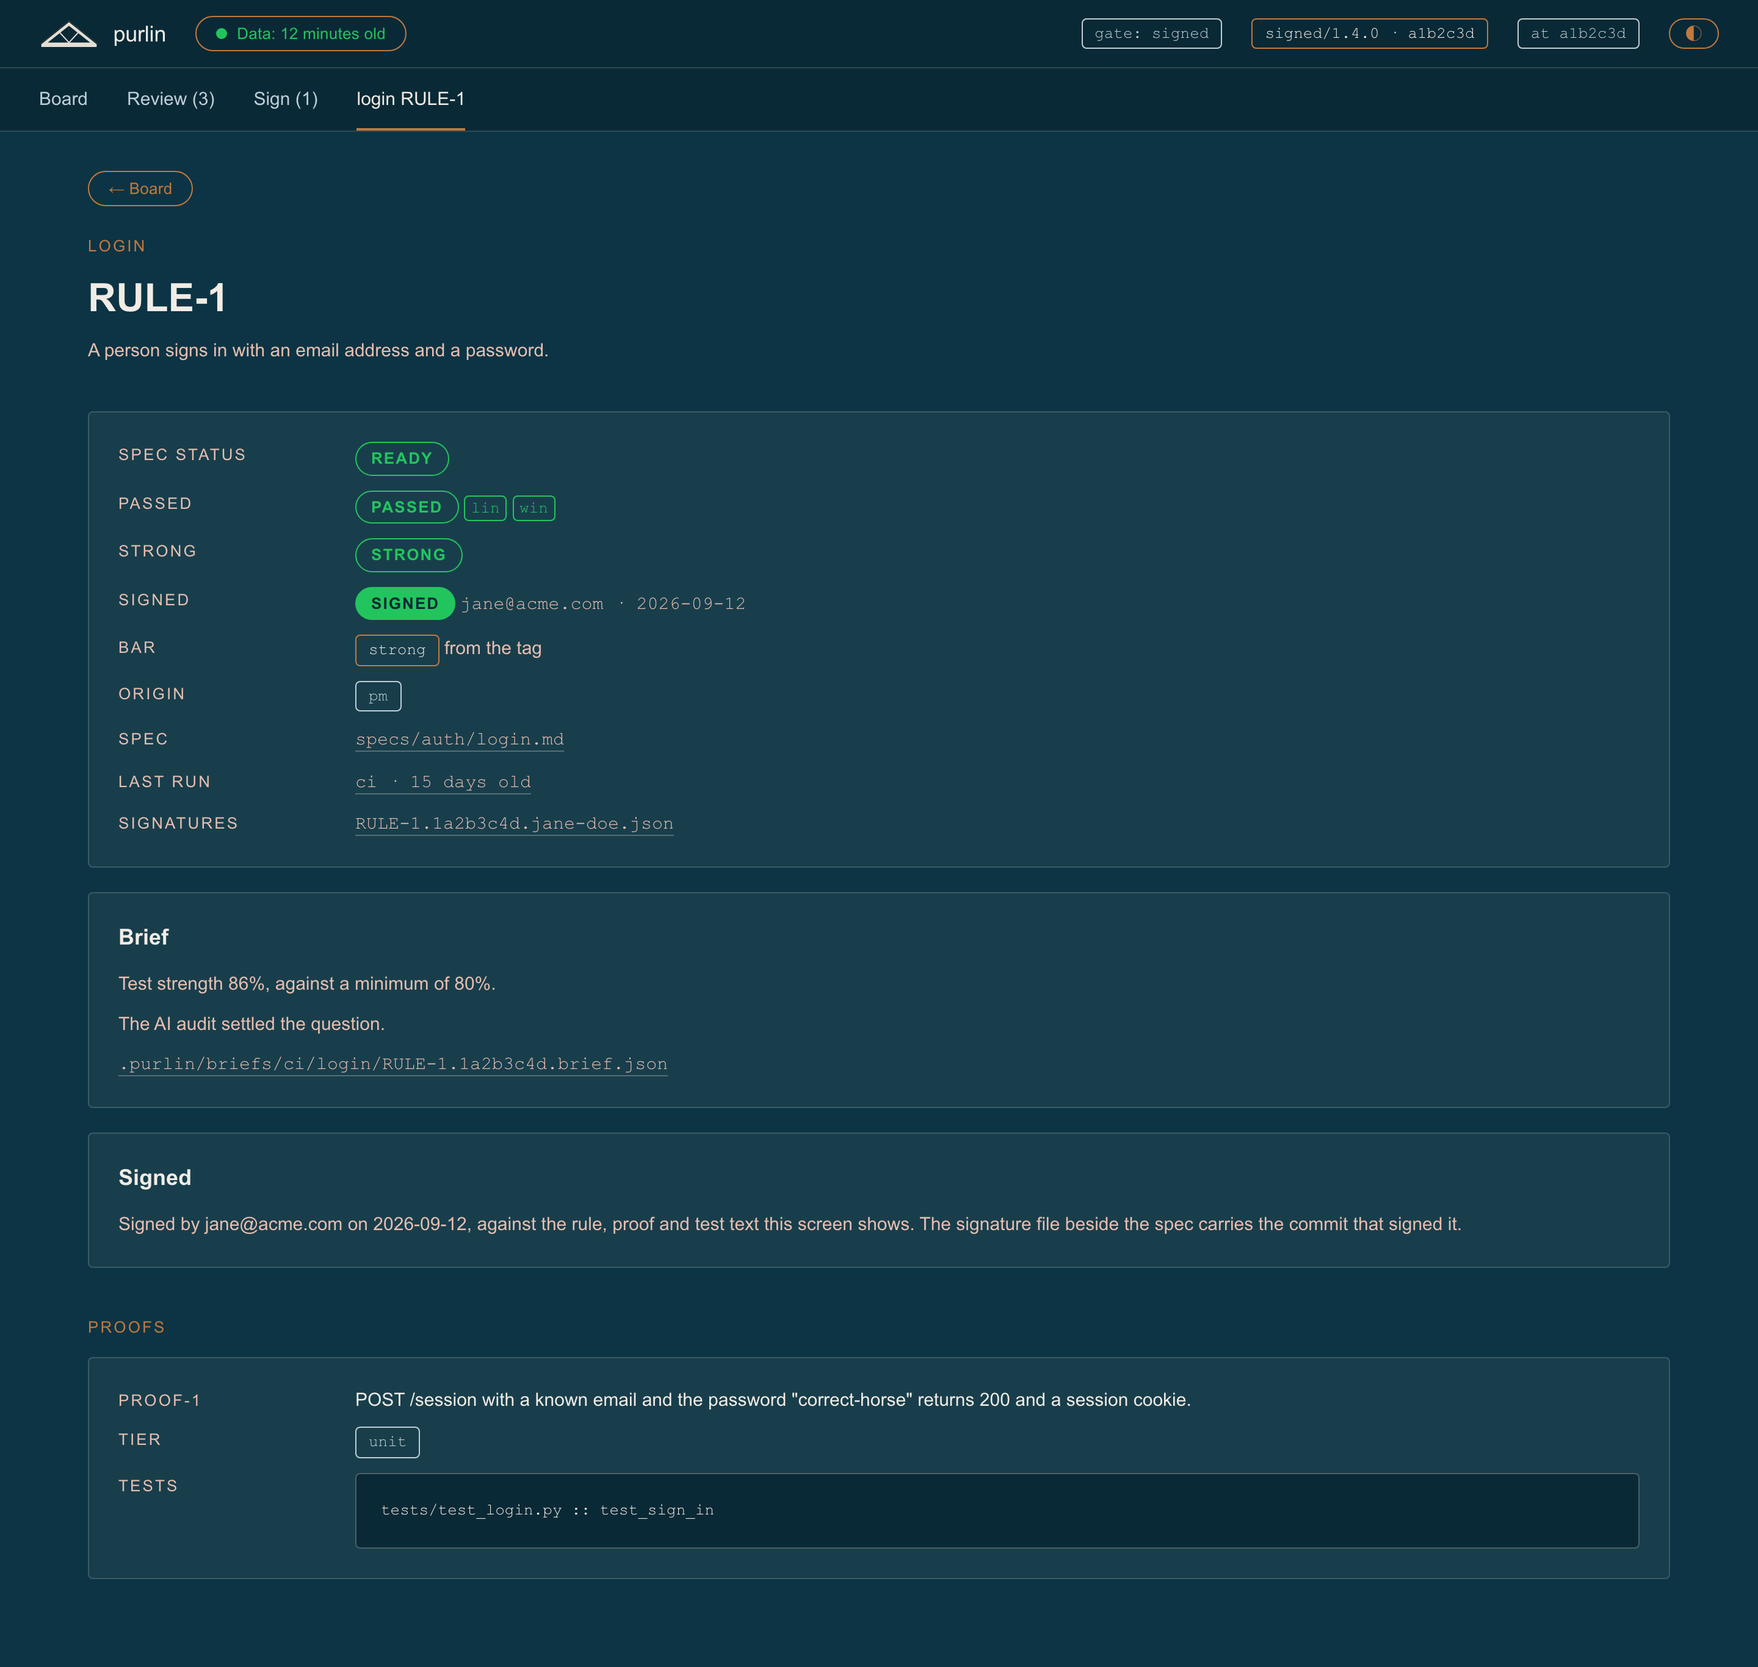
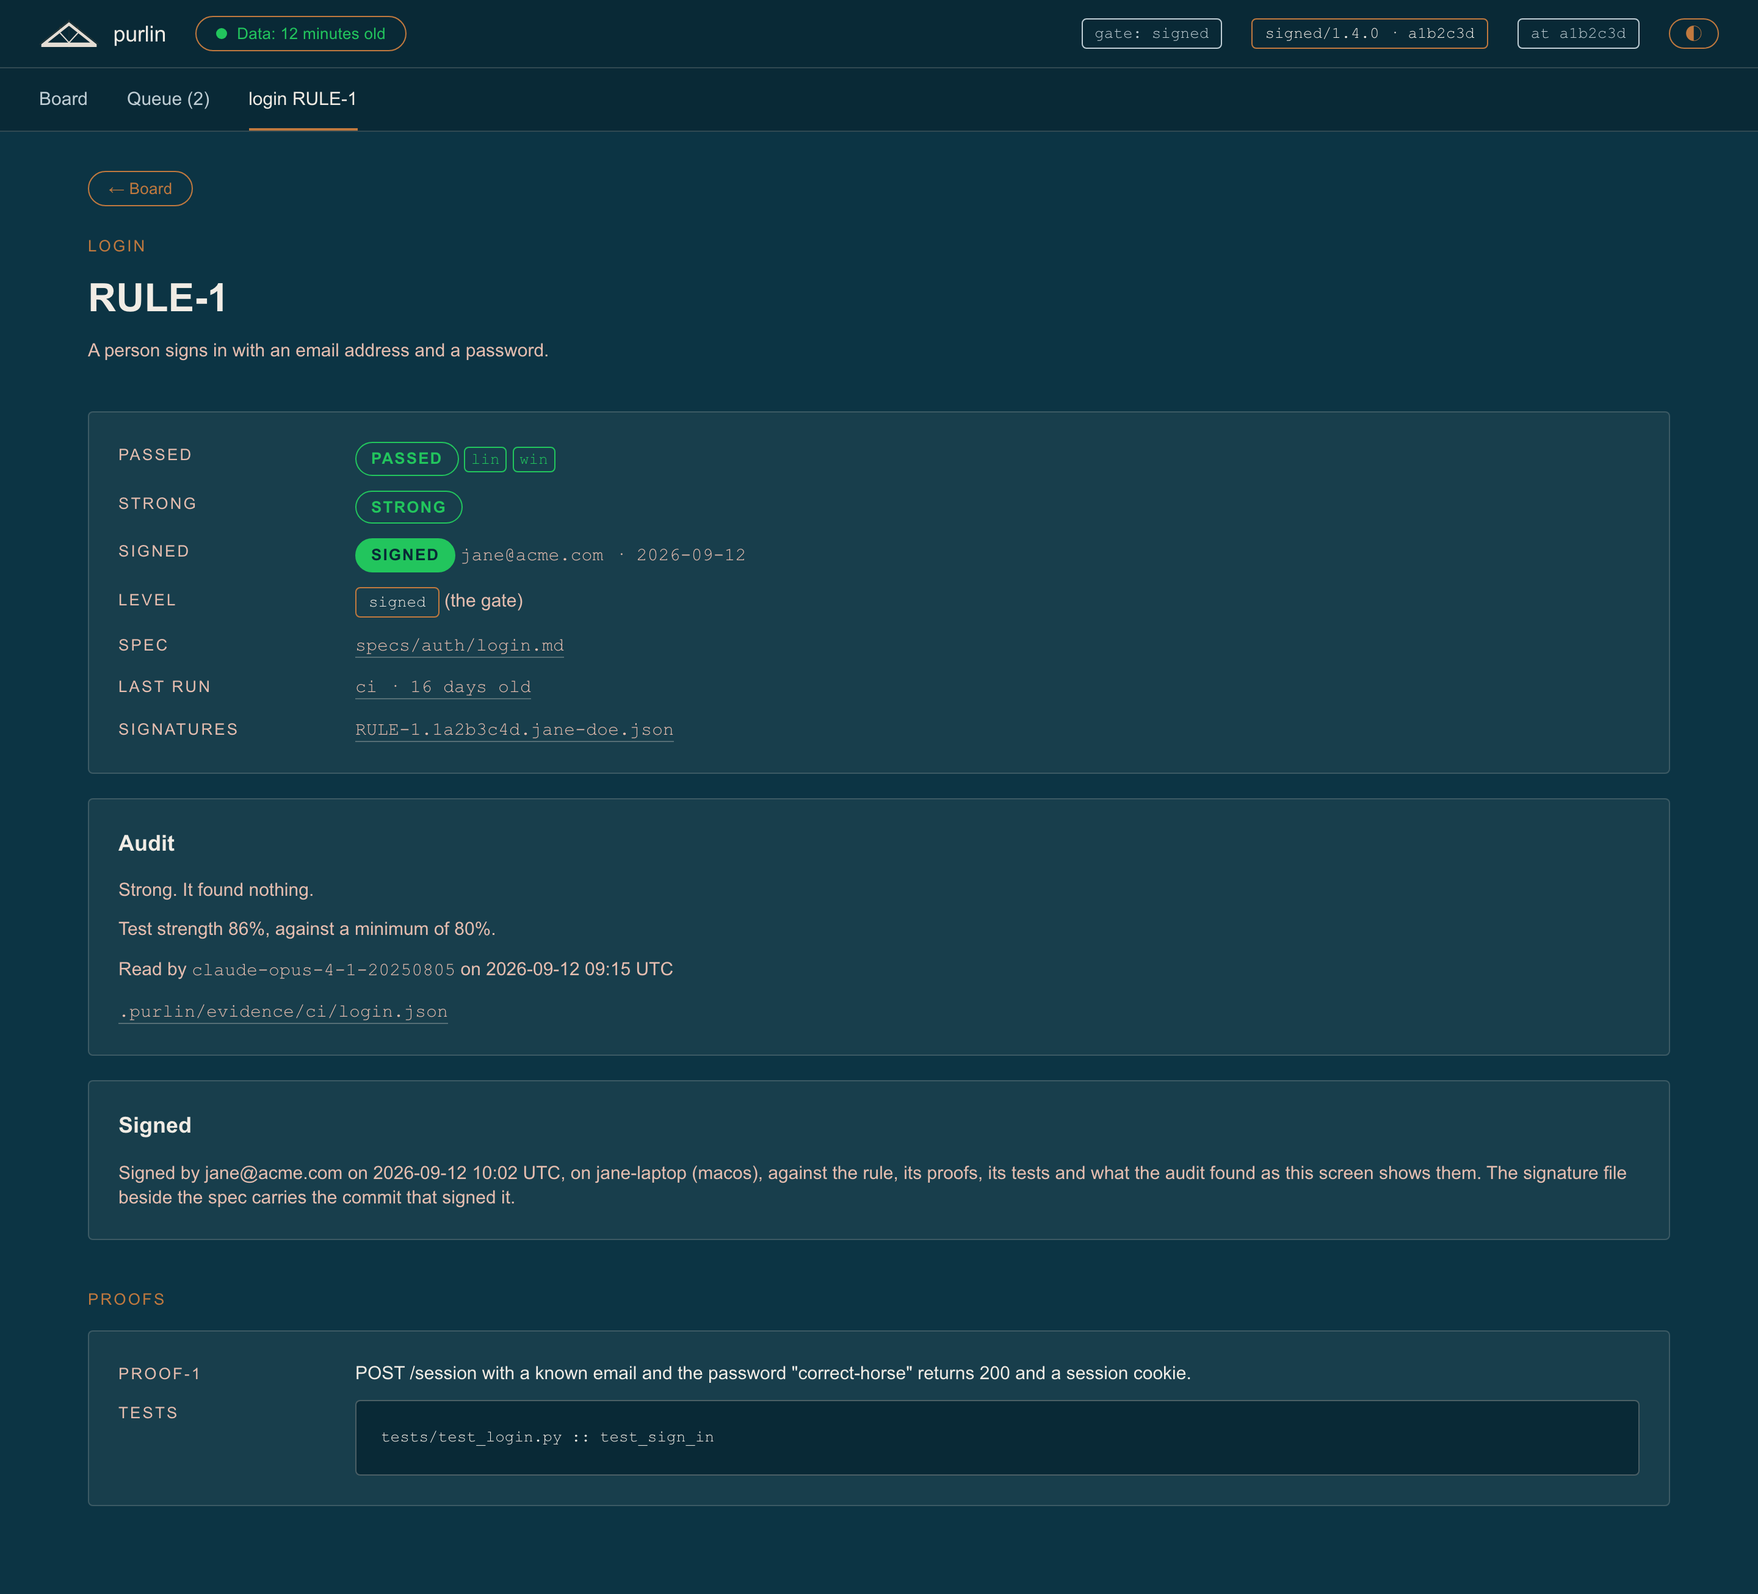
docs: the dashboard page names what it shows, with three screenshots
dev/capture_doc_screenshots.py takes three images from the regulated
fixture: the board, the Queue tab and one signed rule. The five other
images are deleted. docs/dashboard.md describes the page as it is: the
four commands that write its data, the five words at passed, a spec with
no scope, the Audit panel and the signature panel. CLAUDE.md names the
three screenshots and the dashboard's ground.

Claude-Session: https://claude.ai/code/session_01EY16JPT1BcH9yMJU9cYMBw

diff --git a/dev/capture_doc_screenshots.py b/dev/capture_doc_screenshots.py
@@ -1,18 +1,17 @@
 """Capture the board screenshots the docs embed.
 
-Six images, from the same fixture payloads `dev/test_purlin_report.py` renders
-(`dev/fixtures/report/`) rather than from whatever this checkout happens to
-hold: a screenshot taken from live data goes stale the moment the data moves,
-and shows one project's names to every reader.
+Three images, from the same fixture payloads `dev/test_purlin_report.py`
+renders (`dev/fixtures/report/`) rather than from whatever this checkout
+happens to hold: a screenshot taken from live data goes stale the moment the
+data moves, and shows one project's names to every reader.
 
     python3 dev/build_report.py && python3 dev/capture_doc_screenshots.py
 
-    dashboard-solo.png         the board at the passed gate, four tiles
-    dashboard-team.png         the board at strong, with the Strong column
-    dashboard-regulated.png    the board at signed, with the Signed column
-    dashboard-rule.png         one rule, its cells, its brief, its proofs
-    dashboard-review-list.png  the rules whose next step is a person
-    dashboard-sign.png         the rules whose tests and audit are met, waiting to be signed
+    dashboard-board.png   the board at the signed gate: six tiles, the two
+                          flag cards, every column and the filters
+    dashboard-queue.png   the Queue tab: a hand check and a signature
+    dashboard-rule.png    one signed rule: its cells, its level, what the
+                          audit found, its signature and its proofs
 
 Each is the dark theme at 1440 wide, captured at 2x so the type stays crisp.
 Uses dev/browser_launch.py, so it drives an installed Google Chrome when the
@@ -40,15 +39,12 @@ SCALE = 2
 
 # name -> (fixture, the clicks that reach the screen)
 SHOTS = (
-    ('dashboard-solo.png', 'solo', ()),
-    ('dashboard-team.png', 'team', ()),
-    ('dashboard-regulated.png', 'regulated', ()),
+    ('dashboard-board.png', 'regulated', ()),
+    ('dashboard-queue.png', 'regulated', ('[data-screen="queue"]',)),
+    # RULE-1 is the signed one: its cells show a platform box, what the audit
+    # found and a signature, which is the whole chain on one screen.
     ('dashboard-rule.png', 'regulated',
      ('[data-act="feature"][data-feature="login"]', '.rule[data-rule="RULE-1"]')),
-    # RULE-1 is the signed one: its cells show a platform box, a brief and a
-    # signature, which is the whole chain on one screen.
-    ('dashboard-review-list.png', 'regulated', ('[data-screen="queue"]',)),
-    ('dashboard-sign.png', 'regulated', ('[data-screen="queue"]',)),
 )
 
 

diff --git a/docs/dashboard.md b/docs/dashboard.md
@@ -14,12 +14,13 @@ version-pinned and the link would break on the first plugin update. The copy doe
 itself; run `purlin:init --update` after a plugin update. The page is gitignored, so each
 person gets their own.
 
-Open it in any browser. It reads `.purlin/report-data.js`, which the plugin rewrites in the
-background after a tool call or a turn changed a spec, a proof file, a record or the config.
-That file is generated and never committed. The page reloads itself when you come back to the
-tab and what it is showing is more than 60 seconds old, keeping the screen and the open rule,
-so a signature you have just written appears without you reloading anything. A commit you make
-by hand outside Claude Code shows up after the next `purlin:status`.
+Open it in any browser. It reads `.purlin/report-data.js`, which `purlin:status`,
+`purlin:test`, `purlin:audit` and `purlin:sign` each write as they finish. Nothing writes it in
+the background: an edit you make with no Purlin command leaves the page as it was, and shows up
+after the next of those four. The file is generated and never committed. The page reloads
+itself when you come back to the tab and what it is showing is more than 60 seconds old,
+keeping the screen and the open rule, so a signature you have just written appears without you
+reloading anything.
 
 Nothing is provisioned, nothing is hosted, and no site has to be published. A remote runner
 uploads no artifact and posts no comment: the page is local.
@@ -27,10 +28,10 @@ uploads no artifact and posts no comment: the page is local.
 ## The chrome
 
 Every screen carries the same top bar: the logo, how old the data is, the gate in force, the
-signed tag, the commit the data was built from, and the theme toggle. The tag reads
-`signed/<version>` with the first seven characters of the commit it points at, or `no signed
-tag` where the data names none: `purlin:sign` writes one only when every rule meets the gate,
-so its absence is a statement too. How old the data is is a button: press it to
+signed tag at `strong` and above, the commit the data was built from, and the theme toggle. The
+tag reads `signed/<version>` with the first seven characters of the commit it points at, or `no
+signed tag` where the data names none: `purlin:sign` writes one only when every rule meets the
+gate, so its absence is a statement too. How old the data is is a button: press it to
 reload the page. The age recomputes itself every 60 seconds from the stamp the data already
 carries, so a tab left open does not read `less than a minute old` an hour later. Below it are
 the tabs: `Board`, then `Queue (n)` at `strong` and above, and the open rule last when there
@@ -52,13 +53,15 @@ its strong cell is met if its level is `strong` or `signed`, and its signed cell
 level is `signed`. The gate decides how many cells a rule has, so it also decides how much
 of this page exists.
 
-![The Board at the passed gate: the Untested, Failing, Partial and Passing tiles, and two specs with their rules, proofs and tests](images/dashboard-solo.png)
+![The Board at the signed gate: six tiles, the Queue and Stale flag cards, the filters, and four specs under their categories with every column](images/dashboard-board.png)
 
 At the `passed` gate a rule has one cell, its passed cell, so the board
 carries four tiles and four columns. The tiles are `Untested`, `Failing`, `Partial` and
 `Passing`. The last of them counts levels rather than buckets: a rule that is signed is still
 passing, so it is counted in `Passing`, in `Strong` and in `Signed` alike. The three below it
-count their own bucket alone. The columns are `Spec`, `Rules`, `Proofs` and `Tests`.
+count their own bucket alone. The columns are `Spec`, `Rules`, `Proofs` and `Tests`. A rule shows its text, its tests and
+one status: `passed`, `failed`, `partial`, `no test`, `not run` or `out of date`. Nothing at this
+gate names a higher level.
 
 | Column | What it reads | What its hover says |
 |---|---|---|
@@ -75,15 +78,11 @@ A rule reads `partial` when its tests passed on one operating system and failed 
 on another. It is not passing and it is not failing, so it has a tile, a filter and a word of
 its own rather than hiding inside either.
 
-![The Board at the strong gate: a Strong tile beside the first four, and the Strong column](images/dashboard-team.png)
-
 At `strong` each rule gains a strong cell, so a `Strong` tile joins the four and one column
 joins the four: `Strong`, reading `18 of 24 · 71%`, how many rules the audit proved strong and
-the test strength of the newest record. Its hover names where that record came from, `local` or
-`ci`, how old it is, and the minimum strength this gate asks for. Your own `purlin:audit`
+the test strength it measured, `n/a` where nothing measured one. Its hover names where the newest
+audit came from, `local` or `ci`, how old it is, and the minimum strength this gate asks for. Your own `purlin:audit`
 counts at this gate and at the one above it.
-
-![The Board at the signed gate: a Signed tile, the Queue and Stale flag cards, and the Signed column](images/dashboard-regulated.png)
 
 At `signed` each rule gains a signed cell. A `Signed` tile joins the five, two flag cards sit
 beside the tiles, and one column joins the five.
@@ -98,8 +97,12 @@ whichever tile its cells put it. Warnings sit above the headline, one per line: 
 working tree, or a spec line the parser could not read as a rule.
 
 **Every when, who and platform detail is in a hover.** A hover is a `title` attribute, one item
-to a line, so it works on a page opened from disk with no script behind it. That is what let the
-board drop from eight columns to six and fit a 1024-wide window where it used to need 1100.
+to a line, so it works on a page opened from disk with no script behind it, and six columns fit
+a 1024-wide window.
+
+A spec with no `> Scope:` line names no files, so Purlin cannot tell which code it covers. Its
+row reads `<name> · no scope`, and the hover on `no scope` gives the reason. A default
+`purlin:test` always runs such a spec, and at `signed` none of its rules can be signed.
 
 Specs are grouped by category. The band above each group carries the category, how many specs
 are in it, and how many of their rules pass their tests, as `mcp · 6 specs · 108 of 113 pass`
@@ -149,7 +152,7 @@ and the tile or the cell it mirrors state the same number before anything is pre
 
 Pressing a rule opens it.
 
-![The rule screen for login RULE-1: the three cell rows with the level, spec, last run and signature file, then the brief panel, the sign panel and the proofs](images/dashboard-rule.png)
+![The rule screen for login RULE-1: the three cell rows with the level, spec, last run and signature file, then the Audit panel, the Signed panel and the proofs](images/dashboard-rule.png)
 
 The screen opens with the feature, the rule id and the rule's text, then one panel of facts:
 one row per cell that exists, then the `Level` row, the spec's path, the last run and the
@@ -159,6 +162,8 @@ whether the rule asked for its level itself or took the project's. Each cell row
 the cell's word as a pill and the reasons it carries:
 `failing: tests/test_login.py`, `windows: no run yet`, `code changed since 9f8e7d6`,
 `strength 64% under 80%`, `manual proof`, `by jane@acme.com`. A cell with nothing to add carries no reason.
+A rule with no proof reads `no test` with `no proof written`; a rule whose spec, code or tests
+changed after its last run reads `out of date` with what changed.
 
 The passed cell's row also carries one small box per operating system a counting run covered,
 labelled `lin`, `mac` or `win`, green where the rule passed there and red where it failed, each
@@ -167,17 +172,22 @@ The board draws no such box: which platform found what is the rule's business, a
 cell's hover sums it for the spec. The signed cell's row names the signer and the date beside
 the word.
 
-At `strong` and above the **Brief panel** follows: the test strength beside `min_strength`,
-then what the audit observed, one sentence to a line as the audit wrote them, then whether the
-audit settled the question, then a link to the brief file. There is no list of check names: the
-audit writes sentences. The brief reports and recommends nothing,
-so what you read here is what was seen, not what to do about it.
+At `strong` and above the **Audit panel** follows. It reads what the audit found:
+`Strong. It found nothing.`, `Weak.`, or `Undecided.` with the reason the rule reads weak, then
+each finding on a line of its own as the audit wrote it, then the test strength beside
+`min_strength`, or `no mutation score measured` where mutation testing is off or no engine
+exists, then the model that read the rule and the minute it did, and a link to the evidence
+file. A rule no audit has read says so. The audit reports and recommends nothing, so what you
+read here is what was seen, not what to do about it.
 
-At `signed` the **Sign panel** comes next. A rule that is not signed names
-the command, `purlin:sign <feature> <RULE-N>`, to run in Claude Code: a signature is a signed commit
-that names its signer, so this page can only read one back once it is committed. A rule that is
-signed is headed `Signed` and names who signed it. Where this rule's level is below `signed`, the
-panel says no signature is required and that one written anyway still counts.
+At `signed` the signature panel comes next. A rule that is not signed carries a panel headed
+with what the queue calls its need, `Signature` or `Hand check`, naming the command to run in
+Claude Code: `purlin:sign <feature> <RULE-N>`, with `--note "<what you saw>"` for a hand check.
+A signature is a signed commit that names its signer, so this page can only read one back once
+it is committed. A signed rule's panel is headed `Signed` and names who signed it, the date and
+minute in UTC, and the machine and operating system it was signed on. Where the rule's level
+is below `signed`, the panel says it asks for no signature and that one written anyway still
+counts.
 
 The **Proofs** are last, each with its `@manual` and `@env` tags where it carries them, and the tests that ran it.
 
@@ -189,7 +199,7 @@ there; from the board the same link reads `← Board`.
 The Queue tab is the rules whose next step is a person. It exists at `strong` and above,
 because below that there is no cell a person answers.
 
-![The Queue tab: the header and its rows, each with its spec, rule id, text, level, what it needs and the command](images/dashboard-review-list.png)
+![The Queue tab at the signed gate: a hand check and a signature, each with its spec, rule id, text, level, what it needs and the command](images/dashboard-queue.png)
 
 The heading says `<n> rules need a person`, with the subline `Hand checks <h> · Signatures <s>`.
 The columns are `Spec`, `Rule`, `What it claims`, `Level`, `Needs` and `Command`. Rows come by
@@ -203,13 +213,13 @@ feature, then by rule number. A rule whose level is `passed` is never here.
 A rule that needs both is one `hand check` row. A rule leaves the tab the moment someone signs
 it.
 
-![The Queue tab at the signed gate: signature rows beside the hand checks](images/dashboard-sign.png)
-
 `not audited` does not put a rule here. A rule reads `not audited` when its level is `strong` or
 `signed` and no audit has run on this code yet; it waits for `purlin:audit`, not for a person.
 A rule with no test, a failing rule and a weak rule are build work, and they stay on the board.
 
-When nothing is waiting the screen reads `No rule is waiting for a person. A rule arrives here
+When nothing is waiting the screen says what arrives there at the project's gate. At `strong`
+it reads `No rule is waiting for a person. A rule arrives here when its level is strong and its
+proof is @manual.` At `signed` it reads `No rule is waiting for a person. A rule arrives here
 when its proof is @manual, or when its level is signed and it has passed its tests and its
 audit.`
 

diff --git a/CLAUDE.md b/CLAUDE.md
@@ -9,9 +9,9 @@ extensions specific to developing the framework.
 The look follows `design/readme.md` and the wording follows `references/writing_style.md`; each
 is the authority for its half. They bind the dashboard, the CLI output, the docs and this file.
 
-- **Two surfaces, one system.** Warm navy, cream, blush and copper for the brand and the docs;
-  `data-surface="product"` for the dashboard. Green, amber, red and teal mean pass, warn, fail
-  and neutral on both. No other accent, no gradient, no shadow, no icon set beyond the unicode
+- **Two surfaces, one system.** Warm navy, cream, blush and copper for the brand, the docs and
+  the dashboard, which sets no surface; `data-surface="product"` for the slate product ground.
+  Green, amber, red and teal mean pass, warn, fail and neutral on both. No other accent, no gradient, no shadow, no icon set beyond the unicode
   glyphs `▶ ▼ ▲ →`, and no emoji anywhere, CLI output included.
 - **Machine text is monospace, human text is sans.** Commands, rule ids, paths, shas and gates in
   Courier New; prose in Arial. Sentence case; command names lowercase with the colon.
@@ -19,8 +19,9 @@ is the authority for its half. They bind the dashboard, the CLI output, the docs
   `theme-light.css`, never a raw palette value. Both themes ship.
 - **Copy voice** follows `references/writing_style.md`: plain and declarative, second person for
   the reader, third person for the system, exact numbers, limits stated, no superlatives.
-- Docs diagrams are mermaid with the init block from `docs/_mermaid.md`; screenshots come from
-  the rebuilt dashboard; the logo is `design/assets/logo.svg`.
+- Docs diagrams are mermaid with the init block from `docs/_mermaid.md`; the three
+  screenshots, the board, the queue and one rule, are taken by `dev/capture_doc_screenshots.py`
+  from the rebuilt dashboard and the fixtures; the logo is `design/assets/logo.svg`.
 
 ## Format reference versioning
 
